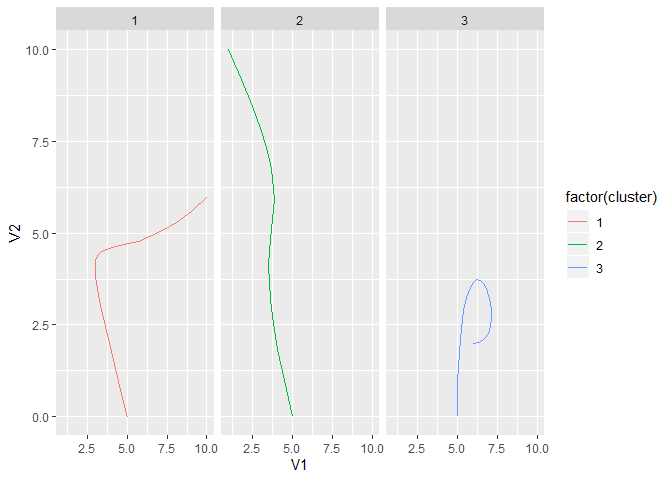
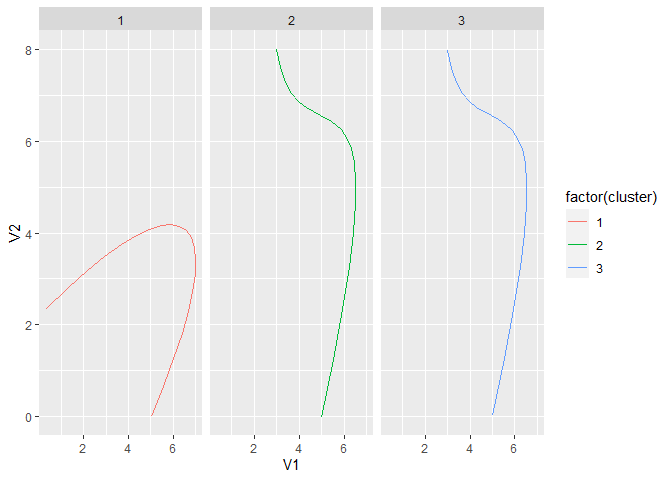
fixed issue with new column renaming scheme in new update of tidyverse

diff --git a/README.md b/README.md
@@ -47,12 +47,16 @@ library(RouteIdentification)
 #> Warning: replacing previous import 'magrittr::extract' by 'tidyr::extract' when
 #> loading 'RouteIdentification'
 library(tidyverse)
-#> -- Attaching packages ------------------------------------------------------------------------------------------- tidyverse 1.3.0 --
-#> v ggplot2 3.2.1     v purrr   0.3.3
-#> v tibble  2.1.3     v dplyr   0.8.4
-#> v tidyr   1.0.2     v stringr 1.4.0
+#> -- Attaching packages -------------------------------------------------------- tidyverse 1.3.0 --
+#> v ggplot2 3.3.0     v purrr   0.3.4
+#> v tibble  3.0.1     v dplyr   1.0.0
+#> v tidyr   1.1.0     v stringr 1.4.0
 #> v readr   1.3.1     v forcats 0.4.0
-#> -- Conflicts ---------------------------------------------------------------------------------------------- tidyverse_conflicts() --
+#> Warning: package 'ggplot2' was built under R version 3.6.3
+#> Warning: package 'tibble' was built under R version 3.6.3
+#> Warning: package 'purrr' was built under R version 3.6.3
+#> Warning: package 'dplyr' was built under R version 3.6.3
+#> -- Conflicts ----------------------------------------------------------- tidyverse_conflicts() --
 #> x dplyr::filter() masks stats::filter()
 #> x dplyr::lag()    masks stats::lag()
 
@@ -61,26 +65,96 @@ nested_trajectory_data <- rand_centred_curves(n_clust = 3, n_curves = 20)
 
 # Apply EM algorithm, either to generated data or appropriately formatted data
 em_results <- driver_em_nested(nested_trajectory_data, K = 3)
-#> 0.01 sec elapsed
+#> 0 sec elapsed
 #> [1] 1
 #> [1] "e_step time"
-#> 1.2 sec elapsed
+#> 0.9 sec elapsed
 #> [1] -Inf
 #> [1] "m_step time"
-#> 0.1 sec elapsed
+#> 0.13 sec elapsed
 #> [1] 2
 #> [1] "e_step time"
-#> 1.17 sec elapsed
-#> [1] 3412.226
+#> 0.94 sec elapsed
+#> [1] 1392.234
 #> [1] "m_step time"
-#> 0.05 sec elapsed
+#> 0.04 sec elapsed
 #> [1] 3
 #> [1] "e_step time"
-#> 1.17 sec elapsed
-#> 3.69 sec elapsed
+#> 0.89 sec elapsed
+#> [1] 1397.012
+#> [1] "m_step time"
+#> 0.05 sec elapsed
+#> [1] 4
+#> [1] "e_step time"
+#> 0.85 sec elapsed
+#> [1] 1398.501
+#> [1] "m_step time"
+#> 0.06 sec elapsed
+#> [1] 5
+#> [1] "e_step time"
+#> 0.84 sec elapsed
+#> [1] 1398.754
+#> [1] "m_step time"
+#> 0.06 sec elapsed
+#> [1] 6
+#> [1] "e_step time"
+#> 0.89 sec elapsed
+#> [1] 1399.044
+#> [1] "m_step time"
+#> 0.07 sec elapsed
+#> [1] 7
+#> [1] "e_step time"
+#> 0.9 sec elapsed
+#> [1] 1399.155
+#> [1] "m_step time"
+#> 0.05 sec elapsed
+#> [1] 8
+#> [1] "e_step time"
+#> 0.91 sec elapsed
+#> [1] 1399.157
+#> [1] "m_step time"
+#> 0.04 sec elapsed
+#> [1] 9
+#> [1] "e_step time"
+#> 0.85 sec elapsed
+#> [1] 1399.155
+#> [1] "m_step time"
+#> 0.05 sec elapsed
+#> [1] 10
+#> [1] "e_step time"
+#> 0.86 sec elapsed
+#> [1] 1399.154
+#> [1] "m_step time"
+#> 0.08 sec elapsed
+#> [1] 11
+#> [1] "e_step time"
+#> 0.92 sec elapsed
+#> [1] 1399.154
+#> [1] "m_step time"
+#> 0.06 sec elapsed
+#> [1] 12
+#> [1] "e_step time"
+#> 0.92 sec elapsed
+#> [1] 1399.154
+#> [1] "m_step time"
+#> 0.08 sec elapsed
+#> [1] 13
+#> [1] "e_step time"
+#> 0.92 sec elapsed
+#> [1] 1399.154
+#> [1] "m_step time"
+#> 0.07 sec elapsed
+#> [1] 14
+#> [1] "e_step time"
+#> 0.92 sec elapsed
+#> 13.36 sec elapsed
 
 # Grab the cluster means
 cluster_means <- extract_cluster_means(em_results)
+#> Warning: The `x` argument of `as_tibble.matrix()` must have column names if `.name_repair` is omitted as of tibble 2.0.0.
+#> Using compatibility `.name_repair`.
+#> This warning is displayed once every 8 hours.
+#> Call `lifecycle::last_warnings()` to see where this warning was generated.
 
 # Identify cluster assignments
 cluster_assignments <- identify_clusters(nested_trajectory_data, em_results)
@@ -88,12 +162,13 @@ cluster_assignments <- identify_clusters(nested_trajectory_data, em_results)
 # Count cluster assignments
 cluster_assignments %>%
   count(cluster, pred_cluster)
-#> # A tibble: 3 x 3
+#> # A tibble: 4 x 3
 #>   cluster pred_cluster     n
 #>     <dbl>        <dbl> <int>
-#> 1       1            1     9
-#> 2       2            3     3
-#> 3       3            2     8
+#> 1       1            2     6
+#> 2       1            3     5
+#> 3       2            1     6
+#> 4       3            1     3
 
 # Plot clusters assigments by assigned cluster mean
 cluster_assignments %>%
@@ -128,12 +203,13 @@ new_data_fit <- fit_new_data(new_trajectory_data, em_results)
 # Tabulate assignments
 new_data_fit %>%
   count(cluster, cluster_assigned)
-#> # A tibble: 3 x 3
+#> # A tibble: 4 x 3
 #>   cluster cluster_assigned     n
 #>     <dbl>            <dbl> <int>
-#> 1       1                1    47
-#> 2       2                3    40
-#> 3       3                2    33
+#> 1       1                2     7
+#> 2       1                3    27
+#> 3       2                1    48
+#> 4       3                1    38
 ```
 
 ## Now with NFL sample data
@@ -172,6 +248,34 @@ nfl_bdb_sample %>%
 #>  9 2017090700     94 Rex Burkhead   flat      
 #> 10 2017090700     94 Brandin Cooks  deep_out  
 #> # ... with 384 more rows
+```
+
+## Now with the higlight data from Adam Sonty (@asonty)
+
+``` r
+## Another NFL example: NextGenStats Scraped Data (compliments to Adam Sonty)
+
+nfl_ngs_sample <- format_nfl_data(file_name = "https://raw.githubusercontent.com/asonty/ngs_highlights/master/play_data/2019_SEA_2020011201_3443.tsv",
+                                  data_source = "asonty")
+
+fitted_clusters <- nfl_ngs_sample %>%
+  select(curve_num, x, y) %>%
+  fit_new_data(nfl_em_results) %>%
+  left_join(cluster_route_map, by = c("cluster_assigned" = "cluster"))
+
+# Overview of the assigned routes
+nfl_ngs_sample %>%
+  nest(cols = -c(gameId, playId, displayName)) %>%
+  select(gameId, playId, displayName) %>%
+  bind_cols(fitted_clusters %>% select(route_name))
+#> # A tibble: 5 x 4
+#>       gameId playId displayName              route_name
+#>        <dbl>  <dbl> <chr>                    <chr>     
+#> 1 2020011201   3443 Jimmy Graham             deep_out  
+#> 2 2020011201   3443 Davante Adams            slant     
+#> 3 2020011201   3443 Geronimo Allison         comeback  
+#> 4 2020011201   3443 Aaron Jones              slant     
+#> 5 2020011201   3443 Marquez Valdes-Scantling slant
 ```
 
 ## Now with the higlight data from 903124
@@ -232,7 +336,7 @@ vehicle_data %>%
   facet_wrap(~ cluster)
 ```
 
-<img src="man/figures/README-unnamed-chunk-5-1.png" width="100%" />
+<img src="man/figures/README-unnamed-chunk-6-1.png" width="100%" />
 
 ``` r
 
@@ -246,20 +350,20 @@ em_results <- driver_em_nested(vehicle_data_subset, K = 3)
 #> 0 sec elapsed
 #> [1] 1
 #> [1] "e_step time"
-#> 4.14 sec elapsed
+#> 3.17 sec elapsed
 #> [1] -Inf
 #> [1] "m_step time"
-#> 0.04 sec elapsed
+#> 0.06 sec elapsed
 #> [1] 2
 #> [1] "e_step time"
-#> 4.21 sec elapsed
+#> 3.05 sec elapsed
 #> [1] -23709.81
 #> [1] "m_step time"
-#> 0.04 sec elapsed
+#> 0.08 sec elapsed
 #> [1] 3
 #> [1] "e_step time"
-#> 4.1 sec elapsed
-#> 12.53 sec elapsed
+#> 2.92 sec elapsed
+#> 9.28 sec elapsed
 
 # Identify cluster assignments
 cluster_assignments <- identify_clusters(vehicle_data_subset, em_results)
@@ -271,12 +375,12 @@ cluster_assignments %>%
 #>   cluster pred_cluster     n
 #>     <dbl>        <dbl> <int>
 #> 1       1            2   100
-#> 2       3            1   100
-#> 3       4            3   100
+#> 2       3            3   100
+#> 3       4            1   100
 
 # Plot clusters assigments by assigned cluster mean
 cluster_assignments %>%
   plot_curve_assign()
 ```
 
-<img src="man/figures/README-unnamed-chunk-5-2.png" width="100%" />
+<img src="man/figures/README-unnamed-chunk-6-2.png" width="100%" />
